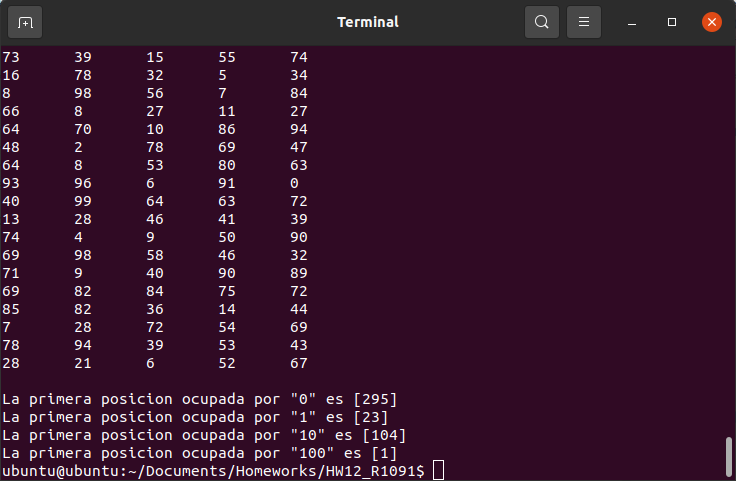
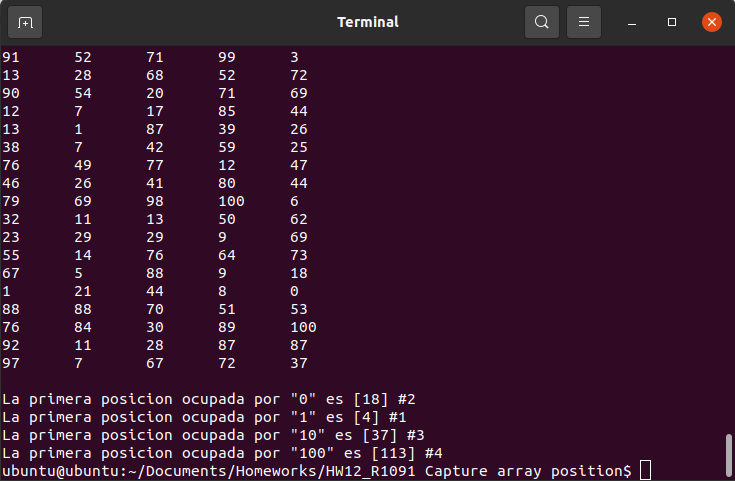
Capture array position

diff --git a/Homeworks/HW12_R1091 Capture array position/HW12.c b/Homeworks/HW12_R1091 Capture array position/HW12.c
@@ -5,28 +5,48 @@
  *********************************************************************************************/
 
 #include <stdio.h>
+#include <math.h>
 #include <stdlib.h>	// Incluye los prototipos de funcion para la generacion de numeros random
 #include <sys/types.h>	// Busqueda y ordenamiento de directorios
 #include <unistd.h>	// Incluye el prototipo de funcion "getpid(void)"
 #define MAX 1000
 
 int main (void) {
-	int i, zero_pos, one_pos, ten_pos, hundred_pos, random[MAX];
-	u_int8_t zero_init = 0, one_init = 0, ten_init = 0, hundred_init = 0;
+	int i, random[MAX];
+	u_int8_t j, pos[4], order[4], pos_order[4];
+	char zero_init = 0, one_init = 0, ten_init = 0, hundred_init = 0;
 	srand(getpid());
 	
 	for (i = 0; i < MAX; i++) {
 		random[i] = rand() % 101;
 		printf("%d%s", random[i], i % 5 < 4 ? "\t" : "\n");
-		if (random[i] == 0 && zero_init == 0) { zero_pos = i; zero_init = 1; }
-		if (random[i] == 1 && one_init == 0) { one_pos = i; one_init = 1; }
-		if (random[i] == 10 && ten_init == 0) { ten_pos = i; ten_init = 1; }
-		if (random[i] == 100 && hundred_init == 0) { hundred_pos = i; hundred_init = 1; }
+		if (random[i] == 0 && zero_init == 0) { pos[0] = i; zero_init = 1; }
+		if (random[i] == 1 && one_init == 0) { pos[1] = i; one_init = 1; }
+		if (random[i] == 10 && ten_init == 0) { pos[2] = i; ten_init = 1; }
+		if (random[i] == 100 && hundred_init == 0) { pos[3] = i; hundred_init = 1; }
 	}
 	
-	printf("\nLa primera posicion ocupada por \"0\" es [%d]\n", zero_pos);	
-	printf("La primera posicion ocupada por \"1\" es [%d]\n", one_pos);	
-	printf("La primera posicion ocupada por \"10\" es [%d]\n", ten_pos);	
-	printf("La primera posicion ocupada por \"100\" es [%d]\n", hundred_pos);	
+	for (i = 0; i < 4; i++) order[i] = pos[i];
+	
+	for (i = 0; i < 4; i++) {
+		for (j = 0; j < 4; j++) {
+			short int x, y;
+			x = order[i] - order[j];
+			if (x < 0) {
+				y = order[j];
+				order[j] = order[i];
+				order[i] = y;
+			}
+		}
+	}
+	
+	for (i = 0; i < 4; i++) { 
+		for (j = 0; j < 4; j++) { 
+			if (pos[i] == order[j]) pos_order[i] = j + 1; 
+		} 
+	}
+	
+	for (i = 0; i < 4; i++) printf("%sLa primera posicion ocupada por \"%.0f\" es [%d] #%d\n",
+	i == 0 ? "\n" : "", pow(10, i - 1), pos[i], pos_order[i]);
 	return 0;
 }
